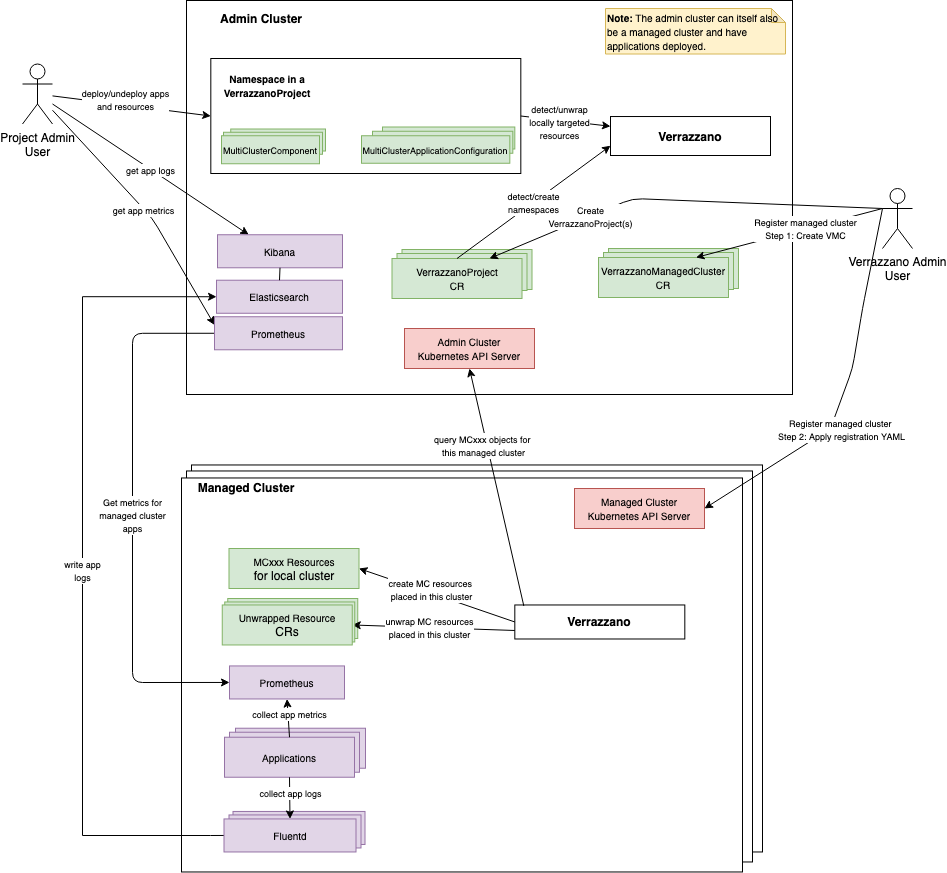
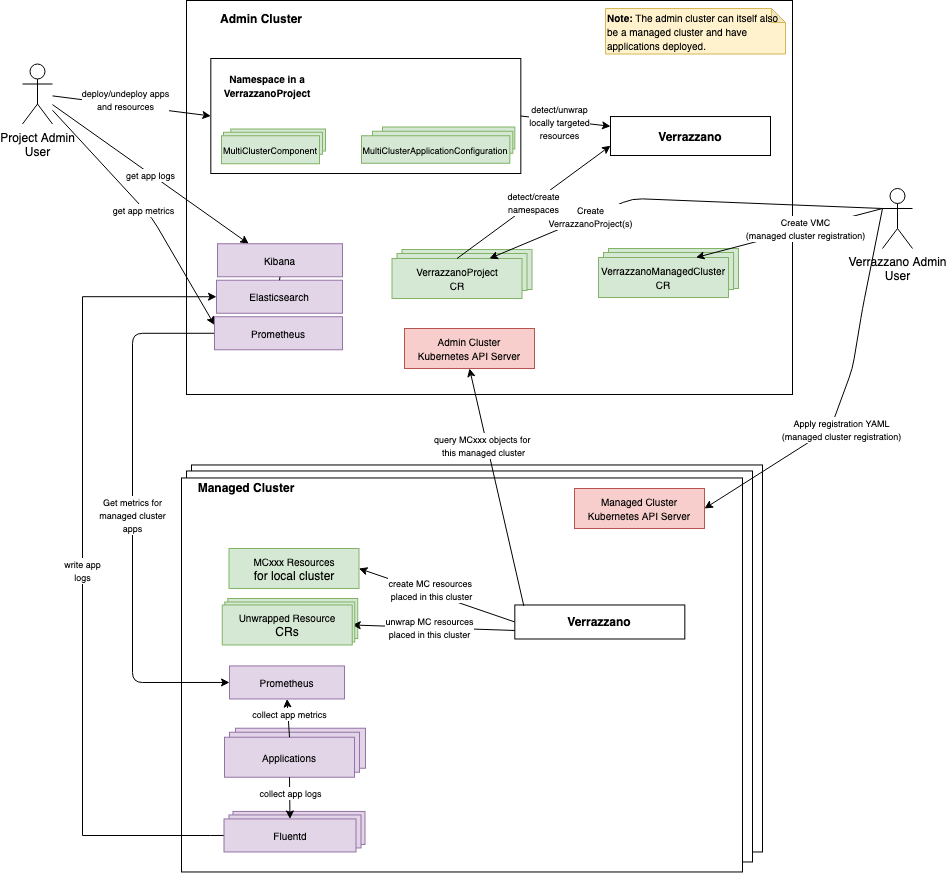
drawing and wording changes

diff --git a/content/en/docs/concepts/VerrazzanoMultiCluster.md b/content/en/docs/concepts/VerrazzanoMultiCluster.md
@@ -39,8 +39,9 @@ installation profile). A managed cluster has the following additional characteri
   Elasticsearch running on the admin cluster, and viewable from that cluster.
 - A Verrazzano multicluster Kubernetes resource created on the admin cluster will be retrieved and deployed to a
   managed cluster if all of the following are true:
-  - The resource is part of a `VerrazzanoProject` that has a `placement` in this managed cluster. 
-  - The resource itself has a `placement` in this managed cluster.
+  - The resource is in a namespace governed by a `VerrazzanoProject`.
+  - The `VerrazzanoProject` is placed in this managed cluster.
+  - The resource itself is placed in this managed cluster.
 
 ### The VerrazzanoProject resource
 A [`VerrazzanoProject`](../../reference/api/multicluster/verrazzanoproject "api docs") provides a way to group application namespaces that are owned or administered by the
